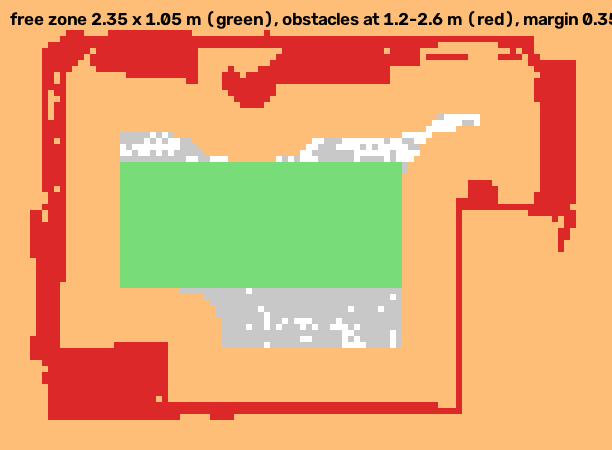
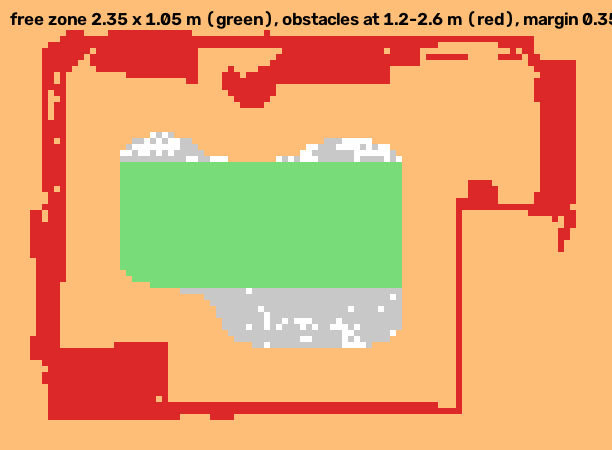
Free space: keep only the main region (narrow passages cut)

diff --git a/tools/free_zone.py b/tools/free_zone.py
@@ -70,6 +70,8 @@ def main():
     ap.add_argument("obj")
     ap.add_argument("--z", type=float, nargs=2, default=[1.4, 2.4], help="flight heights (m)")
     ap.add_argument("--margin", type=float, default=0.35, help="clearance from any obstacle (m)")
+    ap.add_argument("--corridor", type=float, default=0.25,
+                    help="free passages narrower than ~2x this are cut (keeps the drone in the main region)")
     ap.add_argument("--out", default=str(Path(__file__).resolve().parent.parent / "config" / "flight_zone.yaml"))
     a = ap.parse_args()
     V, F = load_obj(a.obj)
@@ -106,6 +108,20 @@ def main():
     i0, i1, j0, j1 = box
     zx0, zx1 = x0 + j0 * CELL, x0 + j1 * CELL
     zy0, zy1 = y0 + i0 * CELL, y0 + i1 * CELL
+    # Keep only the MAIN free region: remove passages narrower than ~2 x --corridor (opening), then the connected
+    # part that contains the mission rectangle. Elsewhere (e.g. the alcove behind a narrow gap, where no marker is
+    # in view) becomes no-fly: its clearance decreases below the margin towards the outside.
+    free = ~blocked
+    rc = int(np.ceil(a.corridor / CELL))
+    k2 = cv2.getStructuringElement(cv2.MORPH_ELLIPSE, (2 * rc + 1, 2 * rc + 1))
+    opened = cv2.morphologyEx(free.astype(np.uint8), cv2.MORPH_OPEN, k2)
+    n_lab, lab = cv2.connectedComponents(opened)
+    main = lab == lab[(i0 + i1) // 2, (j0 + j1) // 2]
+    dist_in = cv2.distanceTransform(main.astype(np.uint8), cv2.DIST_L2, 5) * CELL      # inside main: to its edge
+    dist_out = cv2.distanceTransform((~main).astype(np.uint8), cv2.DIST_L2, 5) * CELL  # outside: to main
+    clearance = np.where(main, np.minimum(clearance, a.margin + dist_in),
+                         np.minimum(clearance, np.maximum(0.0, a.margin - dist_out))).astype(np.float32)
+    blocked = ~main
     out = Path(a.out)
     grid = out.with_name(out.stem + "_grid.npz")
     np.savez_compressed(grid, clearance=clearance, x0=x0, y0=y0, cell=CELL, z_lo=z_lo, z_hi=z_hi)
